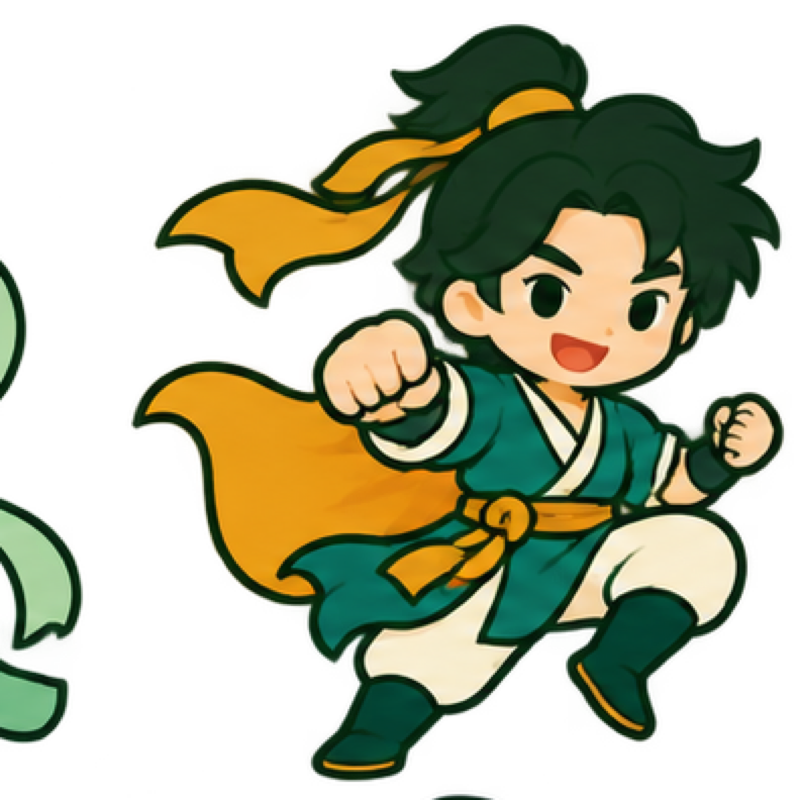
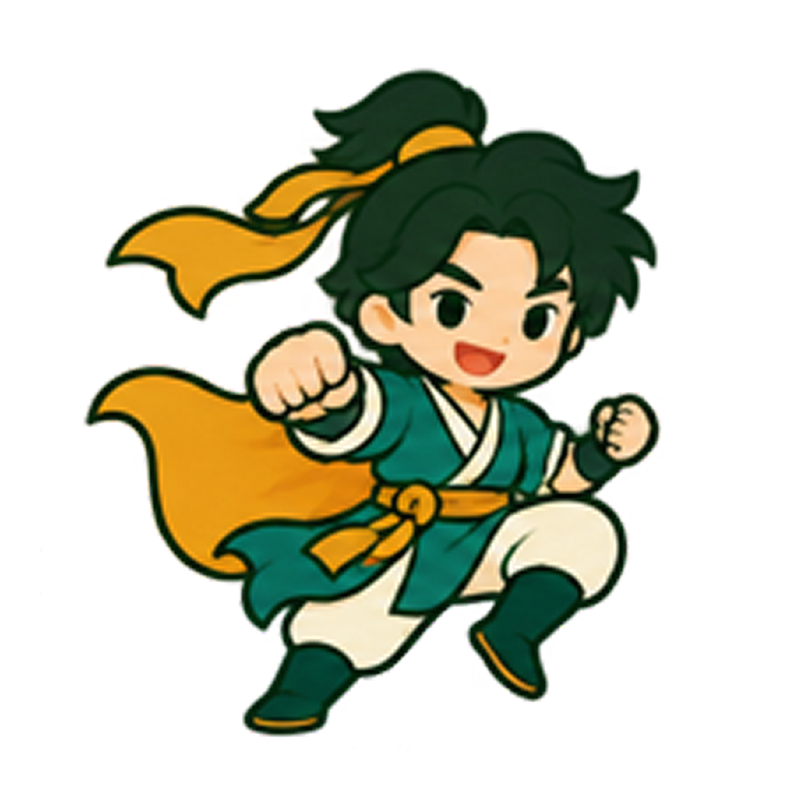
Fix ten-god and shensha image crops

diff --git a/public/learn/ten-gods/index.html b/public/learn/ten-gods/index.html
@@ -16,16 +16,16 @@
 <section><div class="wrap">
   <h1 class="post-title">十神详解：八字里的十种关系</h1>
   <p class="post-sub">以下每个概念都做成独立页面，点开即读。围绕传统文化中的常见概念逐一解释，方便入门与查阅。</p>
-  <div class="hubgrid gods-grid"><a class="hubcard" href="../ten-gods/bijian.html"><span class="god-icon god-0" aria-hidden="true"></span>
-  <h3>比肩</h3><p>比肩 = 和你同性别、同一类的人。日主是甲木，比肩就是另一个甲木——像你身边那个…</p></a><a class="hubcard" href="../ten-gods/jiecai.html"><span class="god-icon god-1" aria-hidden="true"></span>
-  <h3>劫财</h3><p>劫财 = 和你异性、但同属一类的那个人。日主甲木，劫财就是乙木——像你身边那个抢…</p></a><a class="hubcard" href="../ten-gods/shishen.html"><span class="god-icon god-2" aria-hidden="true"></span>
-  <h3>食神</h3><p>食神 = 你"生出来"的东西。日主甲木生丙火，丙就是食神——像你的才华、口才、手…</p></a><a class="hubcard" href="../ten-gods/shangguan.html"><span class="god-icon god-3" aria-hidden="true"></span>
-  <h3>伤官</h3><p>伤官 = 你生的、但带刺的那份才华。日主甲木生丁火，丁就是伤官——比食神更外放、…</p></a><a class="hubcard" href="../ten-gods/zhengcai.html"><span class="god-icon god-4" aria-hidden="true"></span>
-  <h3>正财</h3><p>正财 = 你"克住"的那份正当之财。日主甲木克己土，己就是正财——像你的工资、主…</p></a><a class="hubcard" href="../ten-gods/piancai.html"><span class="god-icon god-5" aria-hidden="true"></span>
-  <h3>偏财</h3><p>偏财 = 你克住、但来去更随意的那份财。日主甲木克戊土，戊就是偏财——像投资、副…</p></a><a class="hubcard" href="../ten-gods/zhengguan.html"><span class="god-icon god-6" aria-hidden="true"></span>
-  <h3>正官</h3><p>正官 = 克你、但克得正当的那股力。日主甲木遇辛金，辛就是正官——像上司、规则、…</p></a><a class="hubcard" href="../ten-gods/qisha.html"><span class="god-icon god-7" aria-hidden="true"></span>
-  <h3>七杀</h3><p>七杀 = 克你、且克得凶狠的那股力。日主甲木遇庚金，庚就是七杀——像恶老板、硬对…</p></a><a class="hubcard" href="../ten-gods/zhengyin.html"><span class="god-icon god-8" aria-hidden="true"></span>
-  <h3>正印</h3><p>正印 = 生你、且生得正当的那份力。日主甲木遇癸水，癸就是正印——像母亲、老师、…</p></a><a class="hubcard" href="../ten-gods/pianyin.html"><span class="god-icon god-9" aria-hidden="true"></span>
+  <div class="hubgrid gods-grid"><a class="hubcard" href="../ten-gods/bijian.html"><img class="god-icon" src="../assets/images/ten-gods/bijian.png" alt="">
+  <h3>比肩</h3><p>比肩 = 和你同性别、同一类的人。日主是甲木，比肩就是另一个甲木——像你身边那个…</p></a><a class="hubcard" href="../ten-gods/jiecai.html"><img class="god-icon" src="../assets/images/ten-gods/jiecai.png" alt="">
+  <h3>劫财</h3><p>劫财 = 和你异性、但同属一类的那个人。日主甲木，劫财就是乙木——像你身边那个抢…</p></a><a class="hubcard" href="../ten-gods/shishen.html"><img class="god-icon" src="../assets/images/ten-gods/shishen.png" alt="">
+  <h3>食神</h3><p>食神 = 你"生出来"的东西。日主甲木生丙火，丙就是食神——像你的才华、口才、手…</p></a><a class="hubcard" href="../ten-gods/shangguan.html"><img class="god-icon" src="../assets/images/ten-gods/shangguan.png" alt="">
+  <h3>伤官</h3><p>伤官 = 你生的、但带刺的那份才华。日主甲木生丁火，丁就是伤官——比食神更外放、…</p></a><a class="hubcard" href="../ten-gods/zhengcai.html"><img class="god-icon" src="../assets/images/ten-gods/zhengcai.png" alt="">
+  <h3>正财</h3><p>正财 = 你"克住"的那份正当之财。日主甲木克己土，己就是正财——像你的工资、主…</p></a><a class="hubcard" href="../ten-gods/piancai.html"><img class="god-icon" src="../assets/images/ten-gods/piancai.png" alt="">
+  <h3>偏财</h3><p>偏财 = 你克住、但来去更随意的那份财。日主甲木克戊土，戊就是偏财——像投资、副…</p></a><a class="hubcard" href="../ten-gods/zhengguan.html"><img class="god-icon" src="../assets/images/ten-gods/zhengguan.png" alt="">
+  <h3>正官</h3><p>正官 = 克你、但克得正当的那股力。日主甲木遇辛金，辛就是正官——像上司、规则、…</p></a><a class="hubcard" href="../ten-gods/qisha.html"><img class="god-icon" src="../assets/images/ten-gods/qisha.png" alt="">
+  <h3>七杀</h3><p>七杀 = 克你、且克得凶狠的那股力。日主甲木遇庚金，庚就是七杀——像恶老板、硬对…</p></a><a class="hubcard" href="../ten-gods/zhengyin.html"><img class="god-icon" src="../assets/images/ten-gods/zhengyin.png" alt="">
+  <h3>正印</h3><p>正印 = 生你、且生得正当的那份力。日主甲木遇癸水，癸就是正印——像母亲、老师、…</p></a><a class="hubcard" href="../ten-gods/pianyin.html"><img class="god-icon" src="../assets/images/ten-gods/pianyin.png" alt="">
   <h3>偏印</h3><p>偏印 = 生你、但生得别扭的那份力。日主甲木遇壬水，壬就是偏印——像冷门技艺、孤…</p></a></div>
 
   <p style="margin-top:24px"><a class="rel" href="../module-2.html">← 返回模块二·十神</a></p>

diff --git a/src/pages/detail/components/index/basic/components/tabel/tabel.vue b/src/pages/detail/components/index/basic/components/tabel/tabel.vue
@@ -4,7 +4,7 @@
       <view class="u-flex u-col-top u-p-y-16" :class="{'bg-white':dindex%2===0}">
         <view v-for="(kitem, kindex) in ['label', 'year', 'month', 'day', 'time']" :key="kitem" :class="{ left: kindex === 0 }" class="item">
           <view class="term-cell" v-if="kindex === 0 || ditem.type === 'default'" @click="showTips(ditem.key,ditem.data[kitem])">
-            <view v-if="relationIndex(ditem.data[kitem]) !== -1" class="deity-icon" :style="relationSpriteStyle(ditem.data[kitem])"></view>
+            <image v-if="relationImage(ditem.data[kitem])" class="deity-icon" :src="relationImage(ditem.data[kitem])" mode="aspectFit"></image>
             <text class="yx-text-weight-b">{{ ditem.data[kitem] }}</text>
           </view>
           <view
@@ -28,8 +28,8 @@
               ]"
               @click="showTips(ditem.key,citem)"
           >
-            <view v-if="relationIndex(citem) !== -1" class="deity-icon deity-icon-small" :style="relationSpriteStyle(citem)"></view>
-            <view v-if="ditem.key === 'gods'" class="shensha-icon" :style="shenshaSpriteStyle(citem)"></view>
+            <image v-if="relationImage(citem)" class="deity-icon deity-icon-small" :src="relationImage(citem)" mode="aspectFit"></image>
+            <image v-if="ditem.key === 'gods'" class="shensha-icon" :src="shenshaImage(citem)" mode="aspectFit"></image>
             {{ citem + (ditem.key==='bottom_hide'?getElAttr(citem,'label'):'') }}
           </view>
         </view>
@@ -43,9 +43,9 @@
 import {computed, ref} from 'vue';
 import {useDetailStore} from "@/store/detail";
 import {getElAttr} from "@/utils/transform";
-import {shenshaSpriteStyle} from "@/utils/shensha-art";
+import {shenshaImage} from "@/utils/shensha-art";
+import {tenGodImage} from "@/utils/ten-god-art";
 import elementSprite from "@/static/icon/element-new/sprite.png";
-import tenGodSprite from "@/static/icon/ten-gods/sprite.png";
 
 const detailStore = useDetailStore();
 const tips = ref();
@@ -104,18 +104,8 @@ function elementSpriteStyle(str) {
   }
 }
 
-const relations = ['比肩','劫财','食神','伤官','正财','偏财','正官','七杀','正印','偏印'];
-function relationIndex(label) {
-  return relations.indexOf(label);
-}
-function relationSpriteStyle(label) {
-  const index = relationIndex(label);
-  const column = index % 5;
-  const row = Math.floor(index / 5);
-  return {
-    backgroundImage: `url(${tenGodSprite})`,
-    backgroundPosition: `${column * 25}% ${row * 100}%`,
-  }
+function relationImage(label) {
+  return tenGodImage(label);
 }
 
 function showTips(type,label){
@@ -151,9 +141,9 @@ function showTips(type,label){
   //box-shadow: rgba(51, 51, 51, 0.07) 0px 0.15625rem 0.375rem;
 }
 .term-cell { display:flex; align-items:center; justify-content:center; gap:8rpx; min-height:46rpx; }
-.deity-icon { width:48rpx; height:48rpx; flex:0 0 48rpx; border-radius:50%; background-repeat:no-repeat; background-size:500% 200%; background-color:#f3f6ef; }
+.deity-icon { width:48rpx; height:48rpx; flex:0 0 48rpx; border-radius:50%; object-fit:contain; background-color:#f3f6ef; }
 .deity-icon-small { display:inline-block; width:34rpx; height:34rpx; vertical-align:middle; margin-right:4rpx; }
-.shensha-icon { display:inline-block; width:38rpx; height:38rpx; vertical-align:middle; margin-right:5rpx; border-radius:50%; background-color:#f3f6ef; }
+.shensha-icon { display:inline-block; width:38rpx; height:38rpx; vertical-align:middle; margin-right:5rpx; border-radius:50%; object-fit:contain; background-color:#f3f6ef; }
 .element-icon { width:46rpx; height:46rpx; flex:0 0 46rpx; border-radius:50%; background-repeat:no-repeat; background-size:500% 100%; background-color:#f5f2e9; }
 @media (max-width: 767px) {
   .deity-icon { width:38rpx; height:38rpx; flex-basis:38rpx; }

diff --git a/src/yxbug-cn/yx-book-tips/yx-book-tips.vue b/src/yxbug-cn/yx-book-tips/yx-book-tips.vue
@@ -13,9 +13,9 @@
   >
     <scroll-view scroll-y="true" style="height: 760rpx;">
       <view class="u-p-20">
-        <view v-if="portrait || shenshaArtwork" class="tips-portrait">
+        <view v-if="portrait || shenshaPortrait" class="tips-portrait">
           <image v-if="portrait" :src="portrait" :alt="`${config.label}神灵简笔画全身形象`" mode="aspectFit"></image>
-          <view v-else class="shensha-portrait" :style="shenshaArtwork" role="img" :aria-label="`${config.label}神煞象征图标`"></view>
+          <image v-else class="shensha-portrait" :src="shenshaPortrait" :alt="`${config.label}神煞象征图标`" mode="aspectFit"></image>
           <a v-if="detailUrl" :href="detailUrl" class="portrait-link">查看完整图文解读 →</a>
         </view>
         <template v-for="item in detail">
@@ -30,17 +30,8 @@
 <script setup>
 import {ref,computed} from "vue";
 import {useTipsStore} from "@/store/tips";
-import {shenshaSpriteStyle} from "@/utils/shensha-art";
-import bijianPortrait from "@/static/icon/ten-gods/full/bijian.png";
-import jiecaiPortrait from "@/static/icon/ten-gods/full/jiecai.png";
-import shishenPortrait from "@/static/icon/ten-gods/full/shishen.png";
-import shangguanPortrait from "@/static/icon/ten-gods/full/shangguan.png";
-import zhengcaiPortrait from "@/static/icon/ten-gods/full/zhengcai.png";
-import piancaiPortrait from "@/static/icon/ten-gods/full/piancai.png";
-import zhengguanPortrait from "@/static/icon/ten-gods/full/zhengguan.png";
-import qishaPortrait from "@/static/icon/ten-gods/full/qisha.png";
-import zhengyinPortrait from "@/static/icon/ten-gods/full/zhengyin.png";
-import pianyinPortrait from "@/static/icon/ten-gods/full/pianyin.png";
+import {shenshaImage} from "@/utils/shensha-art";
+import {tenGodImage, tenGodSlug} from "@/utils/ten-god-art";
 
 const config = ref({
   show:false,
@@ -59,28 +50,9 @@ async function setDetail(type,label){
   if(detail?.label) config.value.show = true;
 }
 
-const relationSlugs = {
-  比肩:"bijian", 劫财:"jiecai", 食神:"shishen", 伤官:"shangguan",
-  正财:"zhengcai", 偏财:"piancai", 正官:"zhengguan", 七杀:"qisha",
-  正印:"zhengyin", 偏印:"pianyin",
-};
-
-const relationPortraits = {
-  bijian: bijianPortrait,
-  jiecai: jiecaiPortrait,
-  shishen: shishenPortrait,
-  shangguan: shangguanPortrait,
-  zhengcai: zhengcaiPortrait,
-  piancai: piancaiPortrait,
-  zhengguan: zhengguanPortrait,
-  qisha: qishaPortrait,
-  zhengyin: zhengyinPortrait,
-  pianyin: pianyinPortrait,
-};
-
-const relationSlug = computed(() => config.value.type === "relation" ? relationSlugs[config.value.label] : "");
-const portrait = computed(() => relationPortraits[relationSlug.value] || "");
-const shenshaArtwork = computed(() => config.value.type === "gods" ? shenshaSpriteStyle(config.value.label) : null);
+const relationSlug = computed(() => config.value.type === "relation" ? tenGodSlug(config.value.label) : "");
+const portrait = computed(() => config.value.type === "relation" ? tenGodImage(config.value.label) : "");
+const shenshaPortrait = computed(() => config.value.type === "gods" ? shenshaImage(config.value.label) : "");
 const detailUrl = computed(() => relationSlug.value ? `/learn/ten-gods/${relationSlug.value}.html` : "");
 
 const detail = computed(()=>{

diff --git a/src/utils/shensha-art.js b/src/utils/shensha-art.js
@@ -1,4 +1,26 @@
-import shenshaSprite from "@/static/icon/shensha/sprite.png";
+import icon0 from "@/static/icon/shensha/individual/0.png";
+import icon1 from "@/static/icon/shensha/individual/1.png";
+import icon2 from "@/static/icon/shensha/individual/2.png";
+import icon3 from "@/static/icon/shensha/individual/3.png";
+import icon4 from "@/static/icon/shensha/individual/4.png";
+import icon5 from "@/static/icon/shensha/individual/5.png";
+import icon6 from "@/static/icon/shensha/individual/6.png";
+import icon7 from "@/static/icon/shensha/individual/7.png";
+import icon8 from "@/static/icon/shensha/individual/8.png";
+import icon9 from "@/static/icon/shensha/individual/9.png";
+import icon10 from "@/static/icon/shensha/individual/10.png";
+import icon11 from "@/static/icon/shensha/individual/11.png";
+import icon12 from "@/static/icon/shensha/individual/12.png";
+import icon13 from "@/static/icon/shensha/individual/13.png";
+import icon14 from "@/static/icon/shensha/individual/14.png";
+import icon15 from "@/static/icon/shensha/individual/15.png";
+
+const SHENSHA_IMAGES = [
+  icon0, icon1, icon2, icon3,
+  icon4, icon5, icon6, icon7,
+  icon8, icon9, icon10, icon11,
+  icon12, icon13, icon14, icon15,
+];
 
 const SHENSHA_GROUPS = [
   ["学堂", "词馆", "十灵日", "六秀日"],
@@ -29,14 +51,7 @@ function fallbackIndex(label = "") {
   return Array.from(label).reduce((sum, char) => sum + char.charCodeAt(0), 0) % 16;
 }
 
-export function shenshaSpriteStyle(label) {
+export function shenshaImage(label) {
   const index = SHENSHA_INDEX.get(label) ?? fallbackIndex(label);
-  const column = index % 4;
-  const row = Math.floor(index / 4);
-  return {
-    backgroundImage: `url(${shenshaSprite})`,
-    backgroundPosition: `${column * (100 / 3)}% ${row * (100 / 3)}%`,
-    backgroundSize: "400% 400%",
-    backgroundRepeat: "no-repeat",
-  };
+  return SHENSHA_IMAGES[index];
 }

diff --git a/src/utils/ten-god-art.js b/src/utils/ten-god-art.js
@@ -1,0 +1,31 @@
+import bijian from "@/static/icon/ten-gods/full/bijian.png";
+import jiecai from "@/static/icon/ten-gods/full/jiecai.png";
+import shishen from "@/static/icon/ten-gods/full/shishen.png";
+import shangguan from "@/static/icon/ten-gods/full/shangguan.png";
+import zhengcai from "@/static/icon/ten-gods/full/zhengcai.png";
+import piancai from "@/static/icon/ten-gods/full/piancai.png";
+import zhengguan from "@/static/icon/ten-gods/full/zhengguan.png";
+import qisha from "@/static/icon/ten-gods/full/qisha.png";
+import zhengyin from "@/static/icon/ten-gods/full/zhengyin.png";
+import pianyin from "@/static/icon/ten-gods/full/pianyin.png";
+
+const TEN_GODS = {
+  比肩: { slug: "bijian", image: bijian },
+  劫财: { slug: "jiecai", image: jiecai },
+  食神: { slug: "shishen", image: shishen },
+  伤官: { slug: "shangguan", image: shangguan },
+  正财: { slug: "zhengcai", image: zhengcai },
+  偏财: { slug: "piancai", image: piancai },
+  正官: { slug: "zhengguan", image: zhengguan },
+  七杀: { slug: "qisha", image: qisha },
+  正印: { slug: "zhengyin", image: zhengyin },
+  偏印: { slug: "pianyin", image: pianyin },
+};
+
+export function tenGodImage(label) {
+  return TEN_GODS[label]?.image || "";
+}
+
+export function tenGodSlug(label) {
+  return TEN_GODS[label]?.slug || "";
+}

diff --git a/public/learn/assets/css/style.css b/public/learn/assets/css/style.css
@@ -685,14 +685,10 @@ figure.svgfig figcaption {
   width: 96px;
   height: 96px;
   border-radius: 50%;
-  background-image: url("../images/ten-gods-sprite.png");
-  background-size: 500% 200%;
-  background-repeat: no-repeat;
+  object-fit: contain;
   background-color: #f1f5ed;
   box-shadow: 0 8px 20px rgba(35,60,52,.11);
 }
-.god-0{background-position:0 0}.god-1{background-position:25% 0}.god-2{background-position:50% 0}.god-3{background-position:75% 0}.god-4{background-position:100% 0}
-.god-5{background-position:0 100%}.god-6{background-position:25% 100%}.god-7{background-position:50% 100%}.god-8{background-position:75% 100%}.god-9{background-position:100% 100%}
 @media (max-width: 640px) {
   .gods-grid .hubcard { min-height: 170px; padding-right: 92px; }
   .god-icon { width: 76px; height: 76px; }
